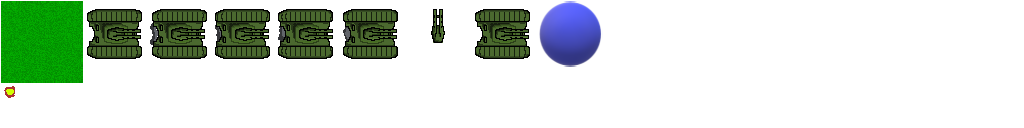
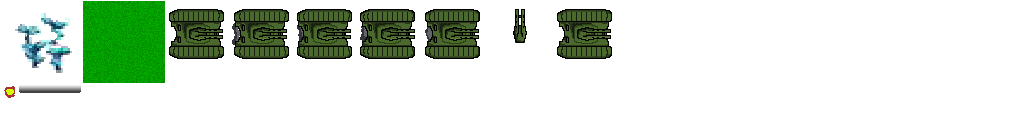
Исходник

Changed region(s): [[0.0, 0.0, 0.625, 0.75]]

diff --git a/core/src/com/dune/game/core/BattleMap.java b/core/src/com/dune/game/core/BattleMap.java
@@ -3,63 +3,102 @@ package com.dune.game.core;
 import com.badlogic.gdx.graphics.g2d.SpriteBatch;
 import com.badlogic.gdx.graphics.g2d.TextureRegion;
 import com.badlogic.gdx.math.MathUtils;
-import com.badlogic.gdx.math.Vector2;
 
-import java.util.ArrayList;
+public class BattleMap {
+    private class Cell {
+        private int cellX, cellY;
+        private int resource;
+        private float resourceRegenerationRate;
+        private float resourceRegenerationTime;
 
-public class BattleMap{
-    private TextureRegion grassTexture;
-    private TextureRegion circleTexture;
-    private ArrayList<Vector2> dataPositionObjects;
-    private final int columns = 16; //Пока будут константами
-    private final int rows = 9; //Пока будут константами
-    private float widthCircleTexture;
+        public Cell(int cellX, int cellY) {
+            this.cellX = cellX;
+            this.cellY = cellY;
+            if(MathUtils.random() < 0.1f) {
+                resource = MathUtils.random(1, 3);
+            }
+            resourceRegenerationRate = MathUtils.random(5.0f) - 4.5f;
+            if (resourceRegenerationRate < 0.0f) {
+                resourceRegenerationRate = 0.0f;
+            } else {
+                resourceRegenerationRate *= 20.0f;
+                resourceRegenerationRate += 10.0f;
+            }
+        }
 
-    public float getWidthCircleTexture() {
-        return widthCircleTexture;
-    }
+        private void update(float dt) {
+            if (resourceRegenerationRate > 0.01f) {
+                resourceRegenerationTime += dt;
+                if (resourceRegenerationTime > resourceRegenerationRate) {
+                    resourceRegenerationTime = 0.0f;
+                    resource++;
+                    if (resource > 5) {
+                        resource = 5;
+                    }
+                }
+            }
+        }
 
-    public BattleMap() {
-        this.grassTexture = Assets.getInstance ().getAtlas ().findRegion ("grass");
-        this.circleTexture = Assets.getInstance ().getAtlas ().findRegion ("circle");
-        this.widthCircleTexture = circleTexture.getRegionWidth ();
-        this.dataPositionObjects = new ArrayList<> ();
-        initData();
-    }
-
-    public ArrayList<Vector2> getDataPositionObjects() {
-        return dataPositionObjects;
-    }
-
-    private void initData() {
-        //От 1 чтобы не делать проверку на попадание в экран.
-        for (int i = 1; i < columns; i++) {
-            for (int j = 1; j < rows; j++) {
-                int temp = MathUtils.random (1,5);
-                if (temp==1){
-                    dataPositionObjects.add(new Vector2(i*80,j*80));
-                    /*Решение создания векторов не нравиться, но по другому не получилось.
-                    Интересно будет посмотреть как правильнее.
-                     */
+        private void render(SpriteBatch batch) {
+            if (resource > 0) {
+                float scale = 0.5f + resource * 0.2f;
+                batch.draw(resourceTexture, cellX * 80, cellY * 80, 40, 40, 80, 80, scale, scale, 0.0f);
+            } else {
+                if (resourceRegenerationRate > 0.01f) {
+                    batch.draw(resourceTexture, cellX * 80, cellY * 80, 40, 40, 80, 80, 0.1f, 0.1f, 0.0f);
                 }
             }
         }
     }
 
-    public void update(float dt, int index, boolean isCollision){
-        //dt пока не нужно, но в будущем будет нужно, поэтому оставляю.
-        if (isCollision) {
-            dataPositionObjects.remove (index);
+    public static final int COLUMNS_COUNT = 16;
+    public static final int ROWS_COUNT = 9;
+    public static final int CELL_SIZE = 80;
+
+    private TextureRegion grassTexture;
+    private TextureRegion resourceTexture;
+    private Cell[][] cells;
+
+    public BattleMap() {
+        this.grassTexture = Assets.getInstance().getAtlas().findRegion("grass");
+        this.resourceTexture = Assets.getInstance().getAtlas().findRegion("resource");
+        this.cells = new Cell[COLUMNS_COUNT][ROWS_COUNT];
+        for (int i = 0; i < COLUMNS_COUNT; i++) {
+            for (int j = 0; j < ROWS_COUNT; j++) {
+                cells[i][j] = new Cell(i, j);
+            }
         }
     }
 
+    public int getResourceCount(Tank harvester) {
+        return cells[harvester.getCellX()][harvester.getCellY()].resource;
+    }
+
+    public int harvestResource(Tank harvester, int power) {
+        int value = 0;
+        if(cells[harvester.getCellX()][harvester.getCellY()].resource >= power) {
+            value = power;
+            cells[harvester.getCellX()][harvester.getCellY()].resource -= power;
+        } else {
+            value = cells[harvester.getCellX()][harvester.getCellY()].resource;
+            cells[harvester.getCellX()][harvester.getCellY()].resource = 0;
+        }
+        return value;
+    }
+
     public void render(SpriteBatch batch) {
-        for (int i = 0; i < columns; i++) {
-            for (int j = 0; j < rows; j++) {
-                batch.draw (grassTexture, i * 80, j * 80);
-                for (Vector2 data : dataPositionObjects) {
-                    batch.draw(circleTexture, data.x - 40, data.y - 40, widthCircleTexture/2, widthCircleTexture/2, widthCircleTexture, widthCircleTexture, 1, 1, 0);
-                }
+        for (int i = 0; i < COLUMNS_COUNT; i++) {
+            for (int j = 0; j < ROWS_COUNT; j++) {
+                batch.draw(grassTexture, i * 80, j * 80);
+                cells[i][j].render(batch);
+            }
+        }
+    }
+
+    public void update(float dt) {
+        for (int i = 0; i < COLUMNS_COUNT; i++) {
+            for (int j = 0; j < ROWS_COUNT; j++) {
+                cells[i][j].update(dt);
             }
         }
     }

diff --git a/core/src/com/dune/game/core/Tank.java b/core/src/com/dune/game/core/Tank.java
@@ -3,28 +3,50 @@ package com.dune.game.core;
 import com.badlogic.gdx.Gdx;
 import com.badlogic.gdx.Input;
 import com.badlogic.gdx.graphics.g2d.SpriteBatch;
+import com.badlogic.gdx.graphics.g2d.TextureAtlas;
 import com.badlogic.gdx.graphics.g2d.TextureRegion;
 import com.badlogic.gdx.math.MathUtils;
 import com.badlogic.gdx.math.Vector2;
 
-public class Tank extends GameObject {
+public class Tank extends GameObject implements Poolable {
+    public enum Owner {
+        PLAYER, AI
+    }
+
+    private Owner ownerType;
+    private Weapon weapon;
     private Vector2 destination;
     private TextureRegion[] textures;
+    private TextureRegion progressbarTexture;
+    private int hp;
     private float angle;
     private float speed;
     private float rotationSpeed;
 
     private float moveTimer;
     private float timePerFrame;
+    private int container;
 
-    public Tank(GameController gc, float x, float y) {
+    @Override
+    public boolean isActive() {
+        return hp > 0;
+    }
+
+    public Tank(GameController gc) {
         super(gc);
-        this.position.set(x, y);
-        this.destination = new Vector2(position);
-        this.textures = Assets.getInstance().getAtlas().findRegion("tankanim").split(64, 64)[0];
-        this.speed = 120.0f;
+        this.progressbarTexture = Assets.getInstance().getAtlas().findRegion("progressbar");
         this.timePerFrame = 0.08f;
         this.rotationSpeed = 90.0f;
+    }
+
+    public void setup(Owner ownerType, float x, float y) {
+        this.textures = Assets.getInstance().getAtlas().findRegion("tankanim").split(64,64)[0];
+        this.position.set(x, y);
+        this.ownerType = ownerType;
+        this.speed = 120.0f;
+        this.hp = 100;
+        this.weapon = new Weapon(Weapon.Type.HARVEST, 3.0f, 1);
+        this.destination = new Vector2(position);
     }
 
     private int getCurrentFrameIndex() {
@@ -32,7 +54,7 @@ public class Tank extends GameObject {
     }
 
     public void update(float dt) {
-        if (Gdx.input.justTouched()) {
+        if (Gdx.input.isButtonPressed(Input.Buttons.RIGHT)) {
             destination.set(Gdx.input.getX(), 720 - Gdx.input.getY());
         }
         if (position.dst(destination) > 3.0f) {
@@ -66,15 +88,21 @@ public class Tank extends GameObject {
                 position.mulAdd(tmp, -dt);
             }
         }
-        if (Gdx.input.isKeyJustPressed(Input.Keys.K)) {
-            fire();
-        }
+        updateWeapon(dt);
         checkBounds();
     }
 
-    public void fire() {
-        tmp.set(position).add(32 * MathUtils.cosDeg(angle), 32 * MathUtils.sinDeg(angle));
-        gc.getProjectilesController().setup(tmp, angle);
+    public void updateWeapon(float dt) {
+        if (weapon.getType() == Weapon.Type.HARVEST) {
+            if (gc.getMap().getResourceCount(this) > 0) {
+                int result = weapon.use(dt);
+                if (result > -1) {
+                    container += gc.getMap().harvestResource(this, result);
+                }
+            } else {
+                weapon.reset();
+            }
+        }
     }
 
     public void checkBounds() {
@@ -94,6 +122,12 @@ public class Tank extends GameObject {
 
     public void render(SpriteBatch batch) {
         batch.draw(textures[getCurrentFrameIndex()], position.x - 40, position.y - 40, 40, 40, 80, 80, 1, 1, angle);
-
+        if (weapon.getType() == Weapon.Type.HARVEST && weapon.getUsageTimePercentage() > 0.0f) {
+            batch.setColor(0.2f, 0.2f, 0.0f, 1.0f);
+            batch.draw(progressbarTexture, position.x - 32, position.y + 30, 64, 12);
+            batch.setColor(1.0f, 1.0f, 0.0f, 1.0f);
+            batch.draw(progressbarTexture, position.x - 30, position.y + 32, 60 * weapon.getUsageTimePercentage(), 8);
+            batch.setColor(1.0f, 1.0f, 1.0f, 1.0f);
+        }
     }
 }

diff --git a/core/src/com/dune/game/core/GameController.java b/core/src/com/dune/game/core/GameController.java
@@ -1,17 +1,15 @@
 package com.dune.game.core;
 
-import com.badlogic.gdx.math.Vector2;
-
-import java.util.ArrayList;
+import com.badlogic.gdx.Gdx;
+import com.badlogic.gdx.graphics.g2d.TextureAtlas;
 
 public class GameController {
     private BattleMap map;
     private ProjectilesController projectilesController;
-    private Tank tank;
-    private Vector2 tmp;
+    private TanksController tanksController;
 
-    public Tank getTank() {
-        return tank;
+    public TanksController getTanksController() {
+        return tanksController;
     }
 
     public ProjectilesController getProjectilesController() {
@@ -25,28 +23,20 @@ public class GameController {
     // Инициализация игровой логики
     public GameController() {
         Assets.getInstance().loadAssets();
-        this.tmp = new Vector2 ();
         this.map = new BattleMap();
         this.projectilesController = new ProjectilesController(this);
-        this.tank = new Tank(this, 200, 200);;
+        this.tanksController = new TanksController(this);
+        this.tanksController.setup(200, 200, Tank.Owner.PLAYER);
+        this.tanksController.setup(400, 400, Tank.Owner.PLAYER);
     }
 
     public void update(float dt) {
-        tank.update(dt);
+        tanksController.update(dt);
         projectilesController.update(dt);
+        map.update(dt);
         checkCollisions(dt);
     }
 
     public void checkCollisions(float dt) {
-        ArrayList<Vector2> data = getMap ().getDataPositionObjects ();
-        float distance;
-        for (int i = 0; i < data.size (); i++) {
-            distance = tmp.set (getTank ().position).dst (data.get(i));
-            if (distance < getMap ().getWidthCircleTexture()) {
-                getMap ().update (dt, i, true);
-            }
-        }
     }
 }
-
-

diff --git a/core/src/com/dune/game/DuneGame.java b/core/src/com/dune/game/DuneGame.java
@@ -9,10 +9,17 @@ public class DuneGame extends Game {
     private SpriteBatch batch;
     private GameScreen gameScreen;
 
+    // Список идей:
+    // - Добавить управления группами танков
+    // - Добавить столкновения
+    // - Добавить боевые танки и стрельбу
+
     // Домашнее задание:
     // 1. Разбор кода, в домашке задавайте вопросы что не ясно
-    // 2. На поле должны быть рассыпаны ресурсы, танк должен их собирать
-    // когда по ним проезжает
+    // 2. Выбор активного танка, управление ведется только активным
+    // 3. Рядом с танком должна отрисовываться загруженность контейнера
+    // 4. Ограничить размер контейнера 50 единицами
+    // 5. * Реализовать столкновения, танки не могут заезжать друг в друга
 
     @Override
     public void create() {

diff --git a/core/src/com/dune/game/core/WorldRenderer.java b/core/src/com/dune/game/core/WorldRenderer.java
@@ -2,14 +2,18 @@ package com.dune.game.core;
 
 import com.badlogic.gdx.Gdx;
 import com.badlogic.gdx.graphics.GL20;
+import com.badlogic.gdx.graphics.g2d.BitmapFont;
 import com.badlogic.gdx.graphics.g2d.SpriteBatch;
+import com.badlogic.gdx.graphics.g2d.TextureRegion;
 
 public class WorldRenderer {
     private SpriteBatch batch;
+    private BitmapFont font32;
     private GameController gc;
 
     public WorldRenderer(SpriteBatch batch, GameController gc) {
         this.batch = batch;
+        this.font32 = Assets.getInstance().getAssetManager().get("fonts/font32.ttf");
         this.gc = gc;
     }
 
@@ -18,8 +22,9 @@ public class WorldRenderer {
         Gdx.gl.glClear(GL20.GL_COLOR_BUFFER_BIT);
         batch.begin();
         gc.getMap().render(batch);
-        gc.getTank().render(batch);
+        gc.getTanksController().render(batch);
         gc.getProjectilesController().render(batch);
+        font32.draw(batch, "Dune Game 2020", 0, 680, 1280, 1, false);
         batch.end();
     }
 }
